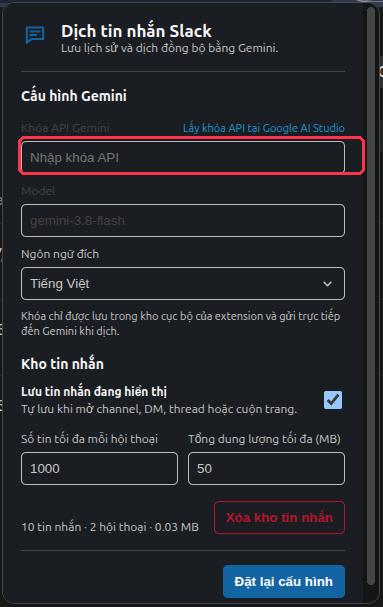
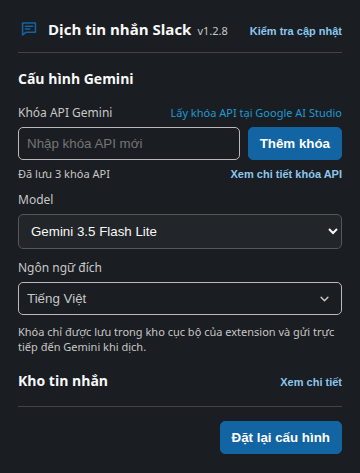
sync: update extension files (484e481)

diff --git a/README.md b/README.md
@@ -61,7 +61,7 @@ Khi phát hành bản mới, hãy tăng `version` trong `manifest.json`, `packag
 **Bước 2: Cấu hình extension**
 1. Nhấn vào biểu tượng extension trên thanh công cụ của trình duyệt để mở popup.
 2. Dán khóa API vừa sao chép vào ô **Khóa API Gemini** rồi nhấn **Thêm khóa**. Ô nhập sẽ trống để bạn thêm khóa khác (bạn cũng có thể bấm vào dòng *Lấy khóa API tại Google AI Studio* ngay trên giao diện popup để mở trang tạo khóa):
-   ![Dán khóa API vào popup extension](docs/images/api_key_step4.png)
+   ![Popup cấu hình extension bản 1.2.8](docs/images/api_key_step4.png)
 3. Chọn một trong sáu model Gemini có sẵn (mặc định: `gemini-3.5-flash-lite`) và thiết lập ngôn ngữ đích cần dịch. Danh sách hiển thị tên bản địa của ngôn ngữ và vẫn tìm được bằng tên tiếng Anh hoặc tiếng Việt. Khi cập nhật lên bản này, lựa chọn model cũ được chuyển một lần sang model mặc định; sau đó bạn có thể chọn lại model khác. Hạn mức RPD theo ảnh được lưu cùng danh sách model trong mã nguồn; hạn mức thực tế có thể thay đổi theo dự án và được xem trong Google AI Studio.
 
 ### Nhiều khóa API và bộ đếm RPD
